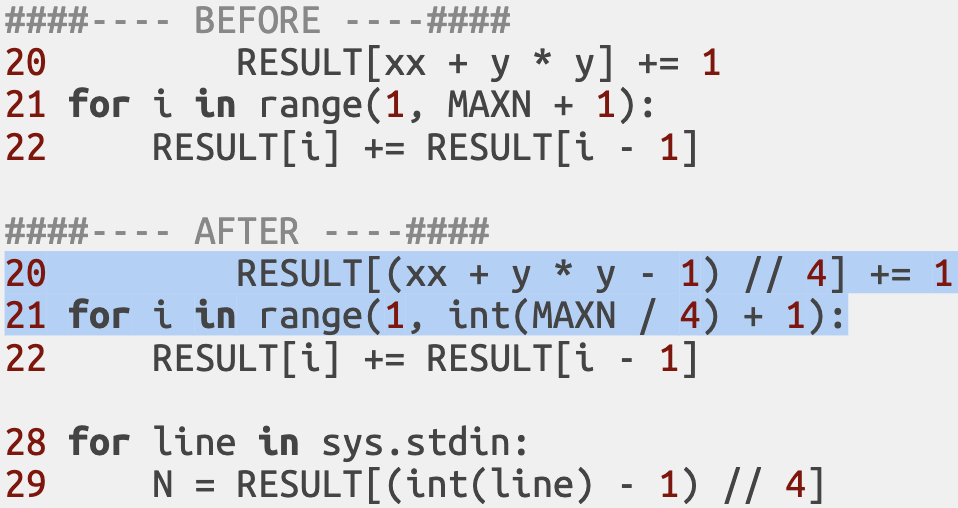
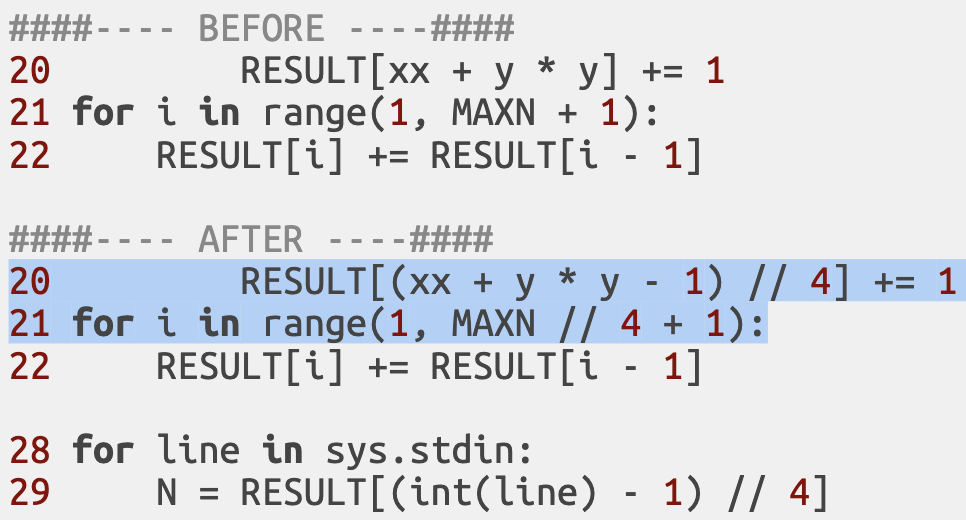
optimise: minor refactor on v14

diff --git a/optimise/v14.py b/optimise/v14.py
@@ -19,7 +19,7 @@ def preprocess():
             if y > xxN:
                 break
             RESULT[(xx + y * y - 1) // 4] += 1
-    for i in range(1, int(MAXN / 4) + 1):
+    for i in range(1, MAXN // 4 + 1):
         RESULT[i] += RESULT[i - 1]
 
 
